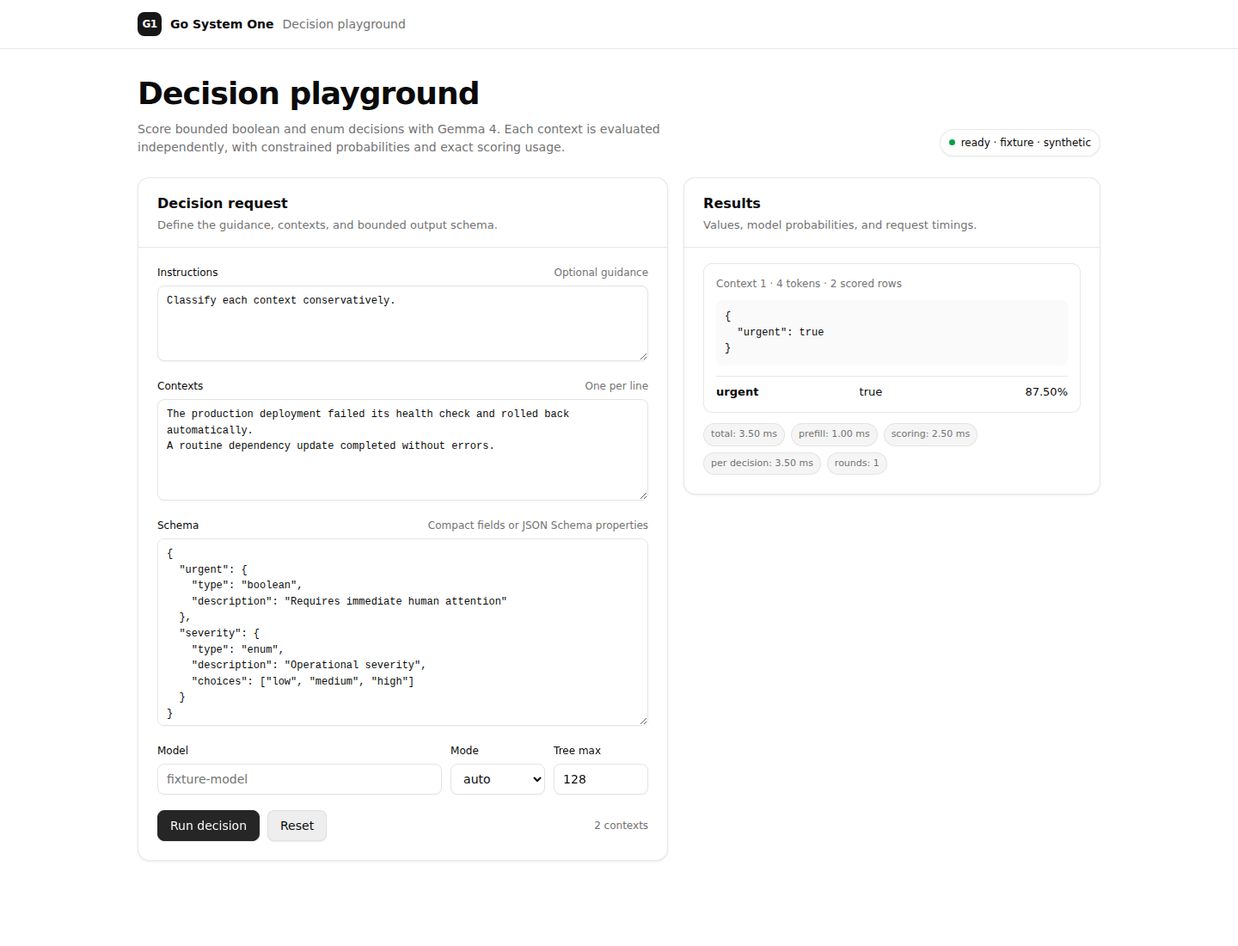
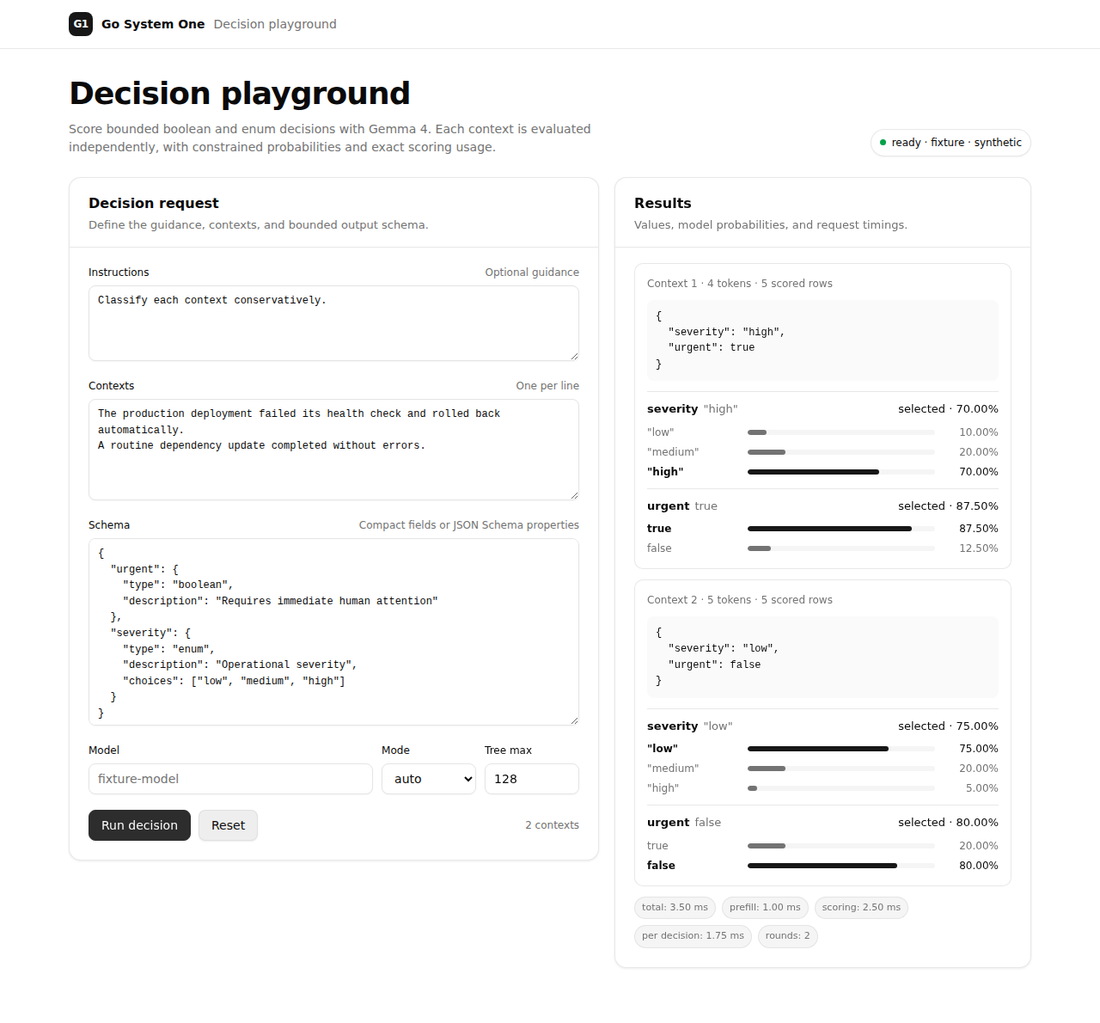
webui: show every candidate probability
Import the reviewed probability contract and renderer from go-pherence c84a151d, assert every boolean and enum candidate in standalone Playwright, and replace the light desktop and dark mobile captures.

diff --git a/webui/go-system-one/index.html b/webui/go-system-one/index.html
@@ -5,7 +5,7 @@
 <meta name="viewport" content="width=device-width,initial-scale=1">
 <title>Go System One Decision Playground</title>
 <style>
-:root{color-scheme:light;--radius:.625rem;--background:oklch(1 0 0);--foreground:oklch(.145 0 0);--card:oklch(1 0 0);--card-foreground:oklch(.145 0 0);--muted:oklch(.97 0 0);--muted-foreground:oklch(.556 0 0);--primary:oklch(.205 0 0);--primary-foreground:oklch(.985 0 0);--secondary:oklch(.95 0 0);--border:oklch(.875 0 0);--input:oklch(.92 0 0);--ring:oklch(.708 0 0);--destructive:oklch(.577 .245 27.325);--code-background:oklch(.985 0 0);--code-foreground:oklch(.145 0 0);--control-background:var(--background);--soft-border:color-mix(in oklch,var(--border) 55%,transparent);--font-mono:ui-monospace,SFMono-Regular,'SF Mono',Monaco,'Cascadia Code','Roboto Mono',Consolas,'Liberation Mono',Menlo,monospace}@media(prefers-color-scheme:dark){:root{color-scheme:dark;--background:oklch(.16 0 0);--foreground:oklch(.985 0 0);--card:oklch(.205 0 0);--card-foreground:oklch(.985 0 0);--muted:oklch(.269 0 0);--muted-foreground:oklch(.708 0 0);--primary:oklch(.922 0 0);--primary-foreground:oklch(.205 0 0);--secondary:oklch(.29 0 0);--border:oklch(1 0 0/.3);--input:oklch(1 0 0/.3);--ring:oklch(.556 0 0);--destructive:oklch(.704 .191 22.216);--code-background:oklch(.225 0 0);--code-foreground:oklch(.875 0 0);--control-background:oklch(1 0 0/.08);--soft-border:oklch(1 0 0/.1)}}*{box-sizing:border-box}html{background:var(--background)}body{min-height:100vh;margin:0;background:var(--background);color:var(--foreground);font:14px/1.5 ui-sans-serif,system-ui,-apple-system,BlinkMacSystemFont,'Segoe UI',sans-serif;-webkit-font-smoothing:antialiased}.appbar{border-bottom:1px solid var(--soft-border);background:color-mix(in oklch,var(--background) 92%,transparent)}.appbar-inner{width:min(1120px,calc(100% - 32px));height:56px;margin:auto;display:flex;align-items:center;justify-content:space-between;gap:16px}.brand{display:flex;align-items:center;gap:10px;min-width:0;font-weight:600}.brand-mark{display:grid;place-items:center;width:28px;height:28px;border-radius:8px;background:var(--primary);color:var(--primary-foreground);font-size:12px;letter-spacing:-.04em}.brand-context{color:var(--muted-foreground);font-weight:400}main{width:min(1120px,calc(100% - 32px));margin:32px auto 64px}.page-header{display:flex;gap:24px;justify-content:space-between;align-items:flex-end;margin-bottom:24px}.page-title{max-width:720px}h1{font-size:clamp(26px,4vw,36px);line-height:1.12;letter-spacing:-.025em;margin:0;font-weight:650}.lede{color:var(--muted-foreground);max-width:680px;margin:.65rem 0 0}.status{display:inline-flex;align-items:center;white-space:nowrap;color:var(--muted-foreground);border:1px solid var(--soft-border);border-radius:999px;padding:6px 10px;background:var(--card);font-size:12px;box-shadow:0 1px 2px oklch(0 0 0/.05)}.status.ok{color:var(--foreground)}.status.ok::before{content:'';width:7px;height:7px;margin-right:7px;border-radius:50%;background:oklch(.62 .17 150)}.grid{display:grid;grid-template-columns:minmax(0,1.12fr) minmax(340px,.88fr);align-items:start;gap:18px}.panel{min-width:0;overflow:hidden;background:var(--card);color:var(--card-foreground);border:1px solid var(--soft-border);border-radius:calc(var(--radius) + 4px);box-shadow:0 1px 3px oklch(0 0 0/.08)}.panel-header{padding:20px 22px 16px;border-bottom:1px solid var(--soft-border)}.panel-content{padding:6px 22px 22px}.results-panel{position:sticky;top:18px}.panel h2{font-size:16px;line-height:1.3;font-weight:600;margin:0}.panel-description{margin:4px 0 0;color:var(--muted-foreground);font-size:13px}label{display:flex;justify-content:space-between;gap:12px;color:var(--foreground);font-size:12px;font-weight:500;margin:14px 0 6px}.label-hint{color:var(--muted-foreground);font-weight:400}textarea,input,select{width:100%;border:1px solid var(--input);border-radius:calc(var(--radius) - 2px);background:var(--control-background);color:var(--foreground);padding:8px 10px;font:inherit;outline:none;box-shadow:0 1px 2px oklch(0 0 0/.04);transition:border-color .15s,box-shadow .15s}input,select{height:36px}input[readonly]{color:var(--muted-foreground)}textarea{font-family:var(--font-mono);font-size:12px;line-height:1.55;min-height:88px;resize:vertical}#contexts{min-height:118px}.schema{min-height:218px}textarea:focus,input:focus,select:focus{border-color:var(--ring);box-shadow:0 0 0 3px color-mix(in oklch,var(--ring) 24%,transparent)}.row{display:grid;grid-template-columns:minmax(0,1fr) 110px 110px;gap:10px}.actions{display:flex;flex-wrap:wrap;gap:9px;align-items:center;margin-top:18px}button{min-height:36px;border:1px solid var(--primary);border-radius:calc(var(--radius) - 2px);background:var(--primary);color:var(--primary-foreground);padding:8px 14px;font-family:inherit;font-size:14px;font-weight:500;line-height:1.2;cursor:pointer;box-shadow:0 1px 2px oklch(0 0 0/.08);transition:background .15s,opacity .15s}button.secondary{border-color:var(--soft-border);background:var(--secondary);color:var(--foreground)}button:hover:not(:disabled){opacity:.88}button:focus-visible{outline:3px solid color-mix(in oklch,var(--ring) 45%,transparent);outline-offset:2px}button:disabled{opacity:.5;cursor:wait}.error{color:var(--destructive);white-space:pre-wrap;margin-top:12px}.error:empty{display:none}.meta{color:var(--muted-foreground);font-size:12px;margin-left:auto}.result{display:grid;gap:12px;padding-top:12px}.card{background:var(--background);border:1px solid var(--soft-border);border-radius:var(--radius);padding:14px}.card h3{font-size:12px;font-weight:500;margin:0 0 10px;color:var(--muted-foreground)}.decision{padding:10px;border-radius:calc(var(--radius) - 2px);background:var(--code-background);color:var(--code-foreground);font:12px/1.55 var(--font-mono);white-space:pre-wrap;overflow-wrap:anywhere}.fields{display:grid;margin-top:12px}.field{display:grid;grid-template-columns:minmax(90px,1fr) minmax(90px,1fr) 76px;gap:10px;padding:8px 0;border-top:1px solid var(--soft-border);font-size:13px;align-items:baseline}.field:last-child{padding-bottom:0}.prob{text-align:right;font-variant-numeric:tabular-nums;font-weight:500}.empty{color:var(--muted-foreground);padding:52px 20px;text-align:center}.empty::before{content:'◫';display:block;margin-bottom:8px;font-size:24px;line-height:1;color:var(--muted-foreground);opacity:.7}.timings{display:flex;flex-wrap:wrap;gap:7px;margin-top:12px}.timings:empty{display:none}.pill{border:1px solid var(--soft-border);border-radius:999px;background:var(--muted);color:var(--muted-foreground);padding:4px 8px;font-size:11px;font-variant-numeric:tabular-nums}@media(max-width:820px){.appbar-inner,main{width:min(100% - 24px,680px)}.brand-context{display:none}main{margin-top:24px}.page-header{display:block}.status{margin-top:14px}.grid{grid-template-columns:1fr}.results-panel{position:static}.panel-header{padding:17px 16px 14px}.panel-content{padding:4px 16px 18px}.row{grid-template-columns:1fr 1fr}.row>div:first-child{grid-column:1/-1}.field{grid-template-columns:minmax(75px,1fr) minmax(70px,1fr) 66px}.meta{width:100%;margin-left:0}}@media(max-width:430px){.appbar-inner,main{width:calc(100% - 20px)}.brand{gap:8px}h1{font-size:27px}.lede{font-size:13px}.schema{min-height:200px}}
+:root{color-scheme:light;--radius:.625rem;--background:oklch(1 0 0);--foreground:oklch(.145 0 0);--card:oklch(1 0 0);--card-foreground:oklch(.145 0 0);--muted:oklch(.97 0 0);--muted-foreground:oklch(.556 0 0);--primary:oklch(.205 0 0);--primary-foreground:oklch(.985 0 0);--secondary:oklch(.95 0 0);--border:oklch(.875 0 0);--input:oklch(.92 0 0);--ring:oklch(.708 0 0);--destructive:oklch(.577 .245 27.325);--code-background:oklch(.985 0 0);--code-foreground:oklch(.145 0 0);--control-background:var(--background);--soft-border:color-mix(in oklch,var(--border) 55%,transparent);--font-mono:ui-monospace,SFMono-Regular,'SF Mono',Monaco,'Cascadia Code','Roboto Mono',Consolas,'Liberation Mono',Menlo,monospace}@media(prefers-color-scheme:dark){:root{color-scheme:dark;--background:oklch(.16 0 0);--foreground:oklch(.985 0 0);--card:oklch(.205 0 0);--card-foreground:oklch(.985 0 0);--muted:oklch(.269 0 0);--muted-foreground:oklch(.708 0 0);--primary:oklch(.922 0 0);--primary-foreground:oklch(.205 0 0);--secondary:oklch(.29 0 0);--border:oklch(1 0 0/.3);--input:oklch(1 0 0/.3);--ring:oklch(.556 0 0);--destructive:oklch(.704 .191 22.216);--code-background:oklch(.225 0 0);--code-foreground:oklch(.875 0 0);--control-background:oklch(1 0 0/.08);--soft-border:oklch(1 0 0/.1)}}*{box-sizing:border-box}html{background:var(--background)}body{min-height:100vh;margin:0;background:var(--background);color:var(--foreground);font:14px/1.5 ui-sans-serif,system-ui,-apple-system,BlinkMacSystemFont,'Segoe UI',sans-serif;-webkit-font-smoothing:antialiased}.appbar{border-bottom:1px solid var(--soft-border);background:color-mix(in oklch,var(--background) 92%,transparent)}.appbar-inner{width:min(1120px,calc(100% - 32px));height:56px;margin:auto;display:flex;align-items:center;justify-content:space-between;gap:16px}.brand{display:flex;align-items:center;gap:10px;min-width:0;font-weight:600}.brand-mark{display:grid;place-items:center;width:28px;height:28px;border-radius:8px;background:var(--primary);color:var(--primary-foreground);font-size:12px;letter-spacing:-.04em}.brand-context{color:var(--muted-foreground);font-weight:400}main{width:min(1120px,calc(100% - 32px));margin:32px auto 64px}.page-header{display:flex;gap:24px;justify-content:space-between;align-items:flex-end;margin-bottom:24px}.page-title{max-width:720px}h1{font-size:clamp(26px,4vw,36px);line-height:1.12;letter-spacing:-.025em;margin:0;font-weight:650}.lede{color:var(--muted-foreground);max-width:680px;margin:.65rem 0 0}.status{display:inline-flex;align-items:center;white-space:nowrap;color:var(--muted-foreground);border:1px solid var(--soft-border);border-radius:999px;padding:6px 10px;background:var(--card);font-size:12px;box-shadow:0 1px 2px oklch(0 0 0/.05)}.status.ok{color:var(--foreground)}.status.ok::before{content:'';width:7px;height:7px;margin-right:7px;border-radius:50%;background:oklch(.62 .17 150)}.grid{display:grid;grid-template-columns:minmax(0,1.12fr) minmax(340px,.88fr);align-items:start;gap:18px}.panel{min-width:0;overflow:hidden;background:var(--card);color:var(--card-foreground);border:1px solid var(--soft-border);border-radius:calc(var(--radius) + 4px);box-shadow:0 1px 3px oklch(0 0 0/.08)}.panel-header{padding:20px 22px 16px;border-bottom:1px solid var(--soft-border)}.panel-content{padding:6px 22px 22px}.results-panel{position:sticky;top:18px}.panel h2{font-size:16px;line-height:1.3;font-weight:600;margin:0}.panel-description{margin:4px 0 0;color:var(--muted-foreground);font-size:13px}label{display:flex;justify-content:space-between;gap:12px;color:var(--foreground);font-size:12px;font-weight:500;margin:14px 0 6px}.label-hint{color:var(--muted-foreground);font-weight:400}textarea,input,select{width:100%;border:1px solid var(--input);border-radius:calc(var(--radius) - 2px);background:var(--control-background);color:var(--foreground);padding:8px 10px;font:inherit;outline:none;box-shadow:0 1px 2px oklch(0 0 0/.04);transition:border-color .15s,box-shadow .15s}input,select{height:36px}input[readonly]{color:var(--muted-foreground)}textarea{font-family:var(--font-mono);font-size:12px;line-height:1.55;min-height:88px;resize:vertical}#contexts{min-height:118px}.schema{min-height:218px}textarea:focus,input:focus,select:focus{border-color:var(--ring);box-shadow:0 0 0 3px color-mix(in oklch,var(--ring) 24%,transparent)}.row{display:grid;grid-template-columns:minmax(0,1fr) 110px 110px;gap:10px}.actions{display:flex;flex-wrap:wrap;gap:9px;align-items:center;margin-top:18px}button{min-height:36px;border:1px solid var(--primary);border-radius:calc(var(--radius) - 2px);background:var(--primary);color:var(--primary-foreground);padding:8px 14px;font-family:inherit;font-size:14px;font-weight:500;line-height:1.2;cursor:pointer;box-shadow:0 1px 2px oklch(0 0 0/.08);transition:background .15s,opacity .15s}button.secondary{border-color:var(--soft-border);background:var(--secondary);color:var(--foreground)}button:hover:not(:disabled){opacity:.88}button:focus-visible{outline:3px solid color-mix(in oklch,var(--ring) 45%,transparent);outline-offset:2px}button:disabled{opacity:.5;cursor:wait}.error{color:var(--destructive);white-space:pre-wrap;margin-top:12px}.error:empty{display:none}.meta{color:var(--muted-foreground);font-size:12px;margin-left:auto}.result{display:grid;gap:12px;padding-top:12px}.card{background:var(--background);border:1px solid var(--soft-border);border-radius:var(--radius);padding:14px}.card h3{font-size:12px;font-weight:500;margin:0 0 10px;color:var(--muted-foreground)}.decision{padding:10px;border-radius:calc(var(--radius) - 2px);background:var(--code-background);color:var(--code-foreground);font:12px/1.55 var(--font-mono);white-space:pre-wrap;overflow-wrap:anywhere}.fields{display:grid;margin-top:12px;gap:10px}.field{border-top:1px solid var(--soft-border);padding-top:10px}.field-summary{display:flex;justify-content:space-between;gap:12px;align-items:baseline;font-size:13px}.field-choice{color:var(--muted-foreground);font-weight:400;margin-left:6px}.candidates{display:grid;gap:5px;margin-top:8px}.candidate{display:grid;grid-template-columns:minmax(0,1fr) minmax(72px,2fr) 66px;gap:8px;align-items:center;font-size:12px;color:var(--muted-foreground)}.candidate.selected{color:var(--foreground);font-weight:600}.candidate-value{overflow-wrap:anywhere}.candidate-bar{height:6px;border-radius:999px;background:var(--muted);overflow:hidden}.candidate-fill{display:block;height:100%;border-radius:inherit;background:var(--muted-foreground)}.candidate.selected .candidate-fill{background:var(--primary)}.prob{text-align:right;font-variant-numeric:tabular-nums;font-weight:500}.candidate-note{margin-top:7px;color:var(--muted-foreground);font-size:11px}.empty{color:var(--muted-foreground);padding:52px 20px;text-align:center}.empty::before{content:'◫';display:block;margin-bottom:8px;font-size:24px;line-height:1;color:var(--muted-foreground);opacity:.7}.timings{display:flex;flex-wrap:wrap;gap:7px;margin-top:12px}.timings:empty{display:none}.pill{border:1px solid var(--soft-border);border-radius:999px;background:var(--muted);color:var(--muted-foreground);padding:4px 8px;font-size:11px;font-variant-numeric:tabular-nums}@media(max-width:820px){.appbar-inner,main{width:min(100% - 24px,680px)}.brand-context{display:none}main{margin-top:24px}.page-header{display:block}.status{margin-top:14px}.grid{grid-template-columns:1fr}.results-panel{position:static}.panel-header{padding:17px 16px 14px}.panel-content{padding:4px 16px 18px}.row{grid-template-columns:1fr 1fr}.row>div:first-child{grid-column:1/-1}.candidate{grid-template-columns:minmax(0,1fr) minmax(58px,1.5fr) 62px}.meta{width:100%;margin-left:0}}@media(max-width:430px){.appbar-inner,main{width:calc(100% - 20px)}.brand{gap:8px}h1{font-size:27px}.lede{font-size:13px}.schema{min-height:200px}}
 </style>
 </head>
 <body>
@@ -41,7 +41,7 @@ A routine dependency update completed without errors.</textarea>
 const $=id=>document.getElementById(id);const defaults={instructions:$('instructions').value,contexts:$('contexts').value,schema:$('schema').value};
 function esc(v){return String(v).replace(/[&<>"']/g,c=>({'&':'&amp;','<':'&lt;','>':'&gt;','"':'&quot;',"'":'&#39;'}[c]))}
 async function status(){try{const r=await fetch('/go-system-one/v1/status',{cache:'no-store'});if(!r.ok)throw new Error(await r.text());const s=await r.json();$('model').value=s.model;$('status').textContent=(s.busy?'busy · ':'ready · ')+s.backend+(s.device?' · '+s.device:'');$('status').classList.toggle('ok',!s.busy)}catch(e){$('status').textContent='server unavailable';$('status').classList.remove('ok')}}
-function render(data){const cards=data.results.map((r,i)=>{const fields=Object.entries(r.fields).map(([name,f])=>`<div class="field"><strong>${esc(name)}</strong><span>${esc(JSON.stringify(f.value))}</span><span class="prob">${(f.probability*100).toFixed(2)}%</span></div>`).join('');return `<article class="card"><h3>Context ${i+1} · ${r.usage.context_tokens} tokens · ${r.usage.scored_rows} scored rows</h3><div class="decision">${esc(JSON.stringify(r.decision,null,2))}</div><div class="fields">${fields}</div></article>`}).join('');$('results').className='result';$('results').innerHTML=cards;$('timings').innerHTML=[['total',data.timings.total_ms],['prefill',data.timings.prefill_ms],['scoring',data.timings.scoring_ms],['per decision',data.timings.per_decision_ms]].map(([n,v])=>`<span class="pill">${n}: ${Number(v).toFixed(2)} ms</span>`).join('')+`<span class="pill">rounds: ${data.timings.rounds}</span>`}
+function render(data){const cards=data.results.map((r,i)=>{const fields=Object.entries(r.fields).map(([name,f])=>{const candidates=Array.isArray(f.candidates)?f.candidates:[];const rows=candidates.map(c=>{const probability=Number(c.probability);const percent=(probability*100).toFixed(2);return `<div class="candidate${c.selected?' selected':''}" data-field="${esc(name)}" data-value="${esc(JSON.stringify(c.value))}" data-selected="${c.selected?'true':'false'}"><span class="candidate-value">${esc(JSON.stringify(c.value))}</span><span class="candidate-bar" aria-hidden="true"><span class="candidate-fill" style="width:${Math.max(0,Math.min(100,probability*100)).toFixed(2)}%"></span></span><span class="prob">${percent}%</span></div>`}).join('');const detail=rows||`<div class="candidate-note">Complete distribution unavailable in greedy fallback mode.</div>`;return `<section class="field"><div class="field-summary"><strong>${esc(name)}<span class="field-choice">${esc(JSON.stringify(f.value))}</span></strong><span class="prob">selected · ${(f.probability*100).toFixed(2)}%</span></div><div class="candidates" aria-label="${esc(name)} candidate probabilities">${detail}</div></section>`}).join('');return `<article class="card"><h3>Context ${i+1} · ${r.usage.context_tokens} tokens · ${r.usage.scored_rows} scored rows</h3><div class="decision">${esc(JSON.stringify(r.decision,null,2))}</div><div class="fields">${fields}</div></article>`}).join('');$('results').className='result';$('results').innerHTML=cards;$('timings').innerHTML=[['total',data.timings.total_ms],['prefill',data.timings.prefill_ms],['scoring',data.timings.scoring_ms],['per decision',data.timings.per_decision_ms]].map(([n,v])=>`<span class="pill">${n}: ${Number(v).toFixed(2)} ms</span>`).join('')+`<span class="pill">rounds: ${data.timings.rounds}</span>`}
 $('run').addEventListener('click',async()=>{const button=$('run');$('error').textContent='';$('timings').innerHTML='';let schema;try{schema=JSON.parse($('schema').value)}catch(e){$('error').textContent='Schema JSON: '+e.message;return}const contexts=$('contexts').value.split(/\r?\n/).map(x=>x.trim()).filter(Boolean);const body={model:$('model').value,instructions:$('instructions').value,schema,contexts,mode:$('mode').value,tree_max:Number($('treeMax').value),cache_prompt:true};button.disabled=true;button.textContent='Scoring…';$('requestMeta').textContent=contexts.length+' context'+(contexts.length===1?'':'s');try{const r=await fetch('/v1/decision',{method:'POST',headers:{'content-type':'application/json'},body:JSON.stringify(body)});if(!r.ok)throw new Error((await r.text()).trim()||`HTTP ${r.status}`);render(await r.json())}catch(e){$('error').textContent=e.message}finally{button.disabled=false;button.textContent='Run decision';status()}});
 $('reset').addEventListener('click',()=>{$('instructions').value=defaults.instructions;$('contexts').value=defaults.contexts;$('schema').value=defaults.schema;$('mode').value='auto';$('treeMax').value=128;$('error').textContent='';$('results').className='empty';$('results').textContent='Run a decision to inspect values and probabilities.';$('timings').innerHTML=''});status();setInterval(status,5000);
 </script>

diff --git a/browser/tests/playground.spec.ts b/browser/tests/playground.spec.ts
@@ -15,8 +15,15 @@ test('submits bounded decisions and follows the OS colour scheme', async ({ page
 	await expect(page.locator('.decision')).toHaveCount(2);
 	await expect(page.locator('.decision').first()).toContainText('"urgent": true');
 	await expect(page.locator('.decision').nth(1)).toContainText('"urgent": false');
-	await expect(page.locator('.prob')).toHaveCount(2);
-	await expect(page.locator('.prob').first()).toHaveText('87.50%');
+	const firstContext = page.locator('.card').first();
+	await expect(firstContext.locator('.field')).toHaveCount(2);
+	await expect(firstContext.locator('.candidate')).toHaveCount(5);
+	await expect(firstContext.locator('.candidate[data-field="urgent"][data-value="true"]')).toContainText('87.50%');
+	await expect(firstContext.locator('.candidate[data-field="urgent"][data-value="false"]')).toContainText('12.50%');
+	await expect(firstContext.locator('.candidate[data-field="severity"][data-value="\\"low\\""]')).toContainText('10.00%');
+	await expect(firstContext.locator('.candidate[data-field="severity"][data-value="\\"medium\\""]')).toContainText('20.00%');
+	await expect(firstContext.locator('.candidate[data-field="severity"][data-value="\\"high\\""]')).toContainText('70.00%');
+	await expect(firstContext.locator('.candidate[data-selected="true"]')).toHaveCount(2);
 	await expect(page.locator('#timings')).toContainText('total: 3.50 ms');
 	await assertNoOverflow(page);
 
@@ -37,6 +44,13 @@ test('submits bounded decisions and follows the OS colour scheme', async ({ page
 	await page.goto('/go-system-one');
 	await page.getByRole('button', { name: 'Run decision' }).click();
 	await expect(page.locator('.decision')).toHaveCount(2);
+	await expect(page.locator('.card').first().locator('.candidate .prob')).toHaveText([
+		'10.00%',
+		'20.00%',
+		'70.00%',
+		'87.50%',
+		'12.50%'
+	]);
 	await assertNoOverflow(page);
 	expect(await page.evaluate(() => getComputedStyle(document.documentElement).colorScheme)).toBe('dark');
 	expect(await page.evaluate(() => getComputedStyle(document.body).backgroundColor)).not.toBe(light.background);

diff --git a/model/gosystemone/engine_test.go b/model/gosystemone/engine_test.go
@@ -4,6 +4,7 @@ import (
 	"context"
 	"encoding/json"
 	"errors"
+	"math"
 	"reflect"
 	"strings"
 	"testing"
@@ -57,6 +58,23 @@ func TestEngineDecisionResponseAndContextOrder(t *testing.T) {
 		if got := string(result.Decision["urgent"]); got != "true" && got != "false" {
 			t.Fatalf("result %d decision=%s", i, got)
 		}
+		field := result.Fields["urgent"]
+		if len(field.Candidates) != 2 || string(field.Candidates[0].Value) != "true" || string(field.Candidates[1].Value) != "false" {
+			t.Fatalf("result %d candidates=%+v", i, field.Candidates)
+		}
+		sum, selected := 0.0, 0
+		for _, candidate := range field.Candidates {
+			sum += candidate.Probability
+			if candidate.Selected {
+				selected++
+				if string(candidate.Value) != string(field.Value) || candidate.Probability != field.Probability {
+					t.Fatalf("result %d selected candidate=%+v field=%+v", i, candidate, field)
+				}
+			}
+		}
+		if math.Abs(sum-1) > 1e-12 || selected != 1 {
+			t.Fatalf("result %d candidate sum/selected=%g/%d", i, sum, selected)
+		}
 		if result.Usage.ContextTokens <= 0 || result.Usage.ScoredRows <= 0 {
 			t.Fatalf("result %d usage=%+v", i, result.Usage)
 		}
@@ -69,6 +87,32 @@ func TestEngineDecisionResponseAndContextOrder(t *testing.T) {
 	}
 	if response.Timings.Rounds != 2 {
 		t.Fatalf("rounds=%d want one per context", response.Timings.Rounds)
+	}
+}
+
+func TestEngineGreedyFallbackOmitsUnavailableFullDistribution(t *testing.T) {
+	engine := &Engine{Tokenizer: runeTokenizer{}, Scorer: &fixedScorer{}, BOSToken: 2}
+	response, err := engine.Decide(context.Background(), Request{
+		Schema:   json.RawMessage(`{"severity":{"type":"enum","description":"severity","choices":["low","medium","high"]}}`),
+		Contexts: []string{"one"},
+		Mode:     ModeAuto,
+		TreeMax:  2,
+	})
+	if err != nil {
+		t.Fatal(err)
+	}
+	field := response.Results[0].Fields["severity"]
+	if field.Tree || len(field.Candidates) != 0 || field.Probability <= 0 || field.Probability > 1 {
+		t.Fatalf("greedy field=%+v", field)
+	}
+}
+
+func TestAssembleCandidateResultsRejectsMalformedDistribution(t *testing.T) {
+	field := FieldSpec{Name: "x", Candidates: []Candidate{{Value: json.RawMessage("true")}, {Value: json.RawMessage("false")}}}
+	for _, probabilities := range [][]float64{{1}, {math.NaN(), 1}, {.4, .4}} {
+		if _, err := assembleCandidateResults(field, fieldState{winner: 0, probabilities: probabilities}); err == nil {
+			t.Fatalf("accepted probabilities=%v", probabilities)
+		}
 	}
 }
 

diff --git a/model/gosystemone/engine.go b/model/gosystemone/engine.go
@@ -329,11 +329,41 @@ func assembleResult(schema CompiledSchema, states []fieldState, contextTokens in
 		field := schema.Fields[i]
 		candidate := field.Candidates[state.winner]
 		value := append(json.RawMessage(nil), candidate.Value...)
+		candidateResults, err := assembleCandidateResults(field, state)
+		if err != nil {
+			return Result{}, err
+		}
 		out.Decision[field.Name] = value
-		out.Fields[field.Name] = FieldResult{Value: append(json.RawMessage(nil), value...), Probability: state.pathScore, ScoredNodes: state.scoredNodes, Tree: state.compiled.Tree}
+		out.Fields[field.Name] = FieldResult{Value: append(json.RawMessage(nil), value...), Probability: state.pathScore, Candidates: candidateResults, ScoredNodes: state.scoredNodes, Tree: state.compiled.Tree}
 		out.Usage.ScoredRows += state.compiled.Rows
 	}
 	out.Usage.ContextTokens = contextTokens
+	return out, nil
+}
+
+func assembleCandidateResults(field FieldSpec, state fieldState) ([]CandidateResult, error) {
+	// Tree scoring visits every branching node and can therefore expose the
+	// complete constrained distribution. Greedy fallback preserves its existing
+	// selected-path probability and omits candidates it did not fully score.
+	if len(state.probabilities) == 0 {
+		return nil, nil
+	}
+	if len(state.probabilities) != len(field.Candidates) {
+		return nil, fmt.Errorf("field %q candidate probabilities=%d want %d", field.Name, len(state.probabilities), len(field.Candidates))
+	}
+	out := make([]CandidateResult, len(field.Candidates))
+	sum := 0.0
+	for i, candidate := range field.Candidates {
+		probability := state.probabilities[i]
+		if math.IsNaN(probability) || math.IsInf(probability, 0) || probability < 0 || probability > 1 {
+			return nil, fmt.Errorf("field %q candidate %d has invalid probability", field.Name, i)
+		}
+		sum += probability
+		out[i] = CandidateResult{Value: append(json.RawMessage(nil), candidate.Value...), Probability: probability, Selected: i == state.winner}
+	}
+	if math.Abs(sum-1) > 1e-9 {
+		return nil, fmt.Errorf("field %q candidate probabilities sum=%g", field.Name, sum)
+	}
 	return out, nil
 }
 

diff --git a/webui/browser_test.go b/webui/browser_test.go
@@ -35,12 +35,29 @@ func TestBrowserServer(t *testing.T) {
 		}
 		results := make([]any, len(body.Contexts))
 		for i := range body.Contexts {
+			urgent := i == 0
+			urgentProbability := .875
+			severity := "high"
+			severityProbabilities := []float64{.10, .20, .70}
+			if !urgent {
+				urgentProbability = .80
+				severity = "low"
+				severityProbabilities = []float64{.75, .20, .05}
+			}
 			results[i] = map[string]any{
-				"decision": map[string]any{"urgent": i == 0},
+				"decision": map[string]any{"urgent": urgent, "severity": severity},
 				"fields": map[string]any{
-					"urgent": map[string]any{"value": i == 0, "probability": .875, "scored_nodes": 1, "tree": true},
+					"urgent": map[string]any{"value": urgent, "probability": urgentProbability, "candidates": []any{
+						map[string]any{"value": true, "probability": map[bool]float64{true: .875, false: .20}[urgent], "selected": urgent},
+						map[string]any{"value": false, "probability": map[bool]float64{true: .125, false: .80}[urgent], "selected": !urgent},
+					}, "scored_nodes": 1, "tree": true},
+					"severity": map[string]any{"value": severity, "probability": severityProbabilities[map[string]int{"low": 0, "medium": 1, "high": 2}[severity]], "candidates": []any{
+						map[string]any{"value": "low", "probability": severityProbabilities[0], "selected": severity == "low"},
+						map[string]any{"value": "medium", "probability": severityProbabilities[1], "selected": severity == "medium"},
+						map[string]any{"value": "high", "probability": severityProbabilities[2], "selected": severity == "high"},
+					}, "scored_nodes": 1, "tree": true},
 				},
-				"usage": map[string]int{"context_tokens": 4, "scored_rows": 2},
+				"usage": map[string]int{"context_tokens": 4 + i, "scored_rows": 5},
 			}
 		}
 		w.Header().Set("Content-Type", "application/json")

diff --git a/model/gosystemone/multifield_parity_test.go b/model/gosystemone/multifield_parity_test.go
@@ -138,6 +138,14 @@ func TestGoSystemOneNVIDIAMultiFieldReleasedModelMatchesPinnedLlamaCpp(t *testin
 			if math.Abs(gotField.Probability-wantProbability) > 1e-6 {
 				t.Fatalf("context=%d field=%q probability=%.15g want=%.15g", i, field.Name, gotField.Probability, wantProbability)
 			}
+			if len(gotField.Candidates) != len(field.Candidates) {
+				t.Fatalf("context=%d field=%q candidates=%d want=%d", i, field.Name, len(gotField.Candidates), len(field.Candidates))
+			}
+			for candidateIndex, candidateResult := range gotField.Candidates {
+				if string(candidateResult.Value) != string(field.Candidates[candidateIndex].Value) || math.Abs(candidateResult.Probability-oracleField.Probabilities[candidateIndex]) > 1e-6 || candidateResult.Selected != (candidateIndex == oracleField.CandidateIndex) {
+					t.Fatalf("context=%d field=%q candidate=%d got=%+v", i, field.Name, candidateIndex, candidateResult)
+				}
+			}
 			if !gotField.Tree || gotField.ScoredNodes != oracleField.ScoredNodes {
 				t.Fatalf("context=%d field=%q tree=%v nodes=%d", i, field.Name, gotField.Tree, gotField.ScoredNodes)
 			}

diff --git a/webui/go_system_one_test.go b/webui/go_system_one_test.go
@@ -14,7 +14,7 @@ func TestRegisterGoSystemOnePageAndStatus(t *testing.T) {
 	for _, target := range []string{"/go-system-one", "/go-system-one/"} {
 		w := httptest.NewRecorder()
 		mux.ServeHTTP(w, httptest.NewRequest(http.MethodGet, target, nil))
-		if w.Code != http.StatusOK || !strings.Contains(w.Body.String(), "Go System One Decision Playground") || w.Header().Get("Content-Security-Policy") == "" || w.Header().Get("Cache-Control") != "no-cache" {
+		if w.Code != http.StatusOK || !strings.Contains(w.Body.String(), "Go System One Decision Playground") || !strings.Contains(w.Body.String(), "candidate probabilities") || !strings.Contains(w.Body.String(), "prefers-color-scheme:dark") || w.Header().Get("Content-Security-Policy") == "" || w.Header().Get("Cache-Control") != "no-cache" {
 			t.Fatalf("%s: code=%d headers=%v body=%q", target, w.Code, w.Header(), w.Body.String())
 		}
 	}

diff --git a/model/gosystemone/types.go b/model/gosystemone/types.go
@@ -95,11 +95,18 @@ type CompiledSchema struct {
 	Inputs     []FieldInput
 }
 
-type FieldResult struct {
+type CandidateResult struct {
 	Value       json.RawMessage `json:"value"`
 	Probability float64         `json:"probability"`
-	ScoredNodes int             `json:"scored_nodes"`
-	Tree        bool            `json:"tree"`
+	Selected    bool            `json:"selected"`
+}
+
+type FieldResult struct {
+	Value       json.RawMessage   `json:"value"`
+	Probability float64           `json:"probability"`
+	Candidates  []CandidateResult `json:"candidates,omitempty"`
+	ScoredNodes int               `json:"scored_nodes"`
+	Tree        bool              `json:"tree"`
 }
 
 type ItemUsage struct {

diff --git a/docs/playground.md b/docs/playground.md
@@ -13,9 +13,10 @@ Appearance follows the operating-system `prefers-color-scheme` setting. The page
 ![Go System One playground in light mode on desktop](images/go-system-one-light-desktop.png)
 
 - OS preference: light
-- viewport and output: 1440 × 1100
+- viewport: 1280 px wide
+- full-page output: 1280 × 1190
 - device pixel ratio: 1
[2 lines of base64/hex data omitted]
 
 ### Dark mobile
 
@@ -23,10 +24,10 @@ Appearance follows the operating-system `prefers-color-scheme` setting. The page
 
 - OS preference: dark
 - viewport: 390 × 844
-- full-page output: 390 × 1588
+- full-page output: 390 × 2138
 - device pixel ratio: 1
 - content width: 370 px, without horizontal overflow
[2 lines of base64/hex data omitted]
 
 ## Standalone browser checks
 
@@ -36,11 +37,11 @@ The repository has a model-free Playwright project under `browser/`. Its loopbac
 PLAYWRIGHT_BROWSERS_PATH=/workspace/.cache/ms-playwright make browser-test
 ```
 
-The tests submit two contexts, check rendered decisions and selected probabilities, exercise light and dark OS preferences, reject mobile horizontal overflow, and verify status/method boundaries. CI runs the same Chromium suite. Candidate-by-candidate probability assertions will accompany the API/UI update that exposes complete distributions.
+The tests submit two contexts and assert every boolean and enum candidate probability, including the selected rows. They also exercise light and dark OS preferences, reject mobile horizontal overflow, and verify status and method boundaries. CI runs the same Chromium suite.
 
 ## Capture provenance
 
-The page source was imported from [`go-pherence@8629232b14440f4a9aa06cfb6d6003c1302c8cb9`](https://github.com/rcarmo/go-pherence/commit/8629232b14440f4a9aa06cfb6d6003c1302c8cb9). Screenshots used the loopback-only synthetic browser fixture. No model or user data was loaded.
+The probability renderer was imported from [`go-pherence@c84a151dd8e7f952bc6b3aba35f1d309e79016f3`](https://github.com/rcarmo/go-pherence/commit/c84a151dd8e7f952bc6b3aba35f1d309e79016f3). Screenshots used the loopback-only synthetic browser fixture. No model or user data was loaded.
 
 For each colour scheme, Playwright opened `/go-system-one`, clicked **Run decision**, waited for the first `.decision` result and captured the full page. Source validation passed:
 

diff --git a/docs/upstream.md b/docs/upstream.md
@@ -4,7 +4,7 @@
 
 ## Pinned source
 
-[`scripts/upstream.env`](../scripts/upstream.env) records the accepted full source commit. [`scripts/upstream-files.tsv`](../scripts/upstream-files.tsv) maps upstream paths to local destinations. [`scripts/local-packages.tsv`](../scripts/local-packages.tsv) maps upstream import paths to this module path after copying.
+[`scripts/upstream.env`](../scripts/upstream.env) records the base source commit. [`scripts/upstream-files.tsv`](../scripts/upstream-files.tsv) maps upstream paths to local destinations. Its optional third column pins one file to another full commit. This permits a reviewed hand-off without importing unrelated files changed between the base and hand-off commits. [`scripts/local-packages.tsv`](../scripts/local-packages.tsv) maps upstream import paths to this module path after copying.
 
 All compiled first-party packages live in this repository. `vendor/` contains third-party modules and licences only.
 
@@ -37,7 +37,7 @@ The checkout must have no tracked or untracked changes. This prevents an uncommi
 
 1. Read the complete diff. Resolve repository-specific imports without changing public contracts.
 2. Add new imported files to `scripts/upstream-files.tsv`. Add package-path mappings to `scripts/local-packages.tsv` when a new package enters this module.
-3. Update `scripts/upstream.env` with the accepted full commit and UTC commit time.
+3. Update `scripts/upstream.env` for a complete import. For a selective hand-off, add its full commit to the affected manifest rows and leave the base pin unchanged.
 4. Confirm no source imports `github.com/rcarmo/go-pherence/...` and no `go-pherence` requirement appears in `go.mod`, `go.sum` or `vendor/modules.txt`.
 5. Run `go mod tidy`, `./scripts/vendor.sh` and `make check`.
 6. Run released-model parity when model, tokenizer, scorer, PTX or dispatch behaviour changed.

diff --git a/docs/validation/go-system-one-v1-20260921.md b/docs/validation/go-system-one-v1-20260921.md
@@ -116,7 +116,7 @@ The Kev roadmap remains assessment-only. P0 needs a safe head export and indepen
 
 The handler limits requests to 1 MiB, rejects unknown fields and models, serialises inference, propagates cancellation, and accepts 1–256 contexts. Schema compilation accepts boolean and string enum fields only, with at most 32 fields and 255 candidates per field.
 
-The independently authored page is served at `/go-system-one`; it calls only `/v1/decision` and `/go-system-one/v1/status`. Chromium checks cover page load, request submission, decision rendering, constrained probability rendering and the existing embedded chat UI.
+The independently authored page is served at `/go-system-one`; it calls only `/v1/decision` and `/go-system-one/v1/status`. Tree-mode API fields include the complete ordered candidate distribution, and the page renders every allowed outcome and constrained model probability while highlighting the selected outcome. Greedy fallback retains its selected-path probability but cannot claim probabilities for unscored complete paths. Chromium checks cover page load, request submission, two contexts, boolean and three-way enum candidate distributions, selected markers, decision rendering, OS-preference-only light/dark theming, mobile fit and the existing embedded chat UI.
 
 ```sh
 cd webui/frontend

diff --git a/README.md b/README.md
@@ -114,7 +114,7 @@ The [v1 model report](docs/validation/go-system-one-v1-20260921.md) records the 
 
 This repository contains all Go source needed to build the service. Third-party Go modules and their licences are stored under `vendor/`.
 
-Development also takes place in [`go-pherence`](https://github.com/rcarmo/go-pherence). The current imported source revision is [`788f22402d928004a597b1446568f0e0595dfb1c`](https://github.com/rcarmo/go-pherence/commit/788f22402d928004a597b1446568f0e0595dfb1c). Imports are limited to files listed in the source manifest.
+Development also takes place in [`go-pherence`](https://github.com/rcarmo/go-pherence). Most imported source is pinned to [`788f22402d928004a597b1446568f0e0595dfb1c`](https://github.com/rcarmo/go-pherence/commit/788f22402d928004a597b1446568f0e0595dfb1c). The probability API and playground files are pinned separately to [`c84a151dd8e7f952bc6b3aba35f1d309e79016f3`](https://github.com/rcarmo/go-pherence/commit/c84a151dd8e7f952bc6b3aba35f1d309e79016f3). The source manifest lists each imported path and any per-file revision.
 
 ```sh
 ./scripts/update-upstream.sh <full-go-pherence-commit>
